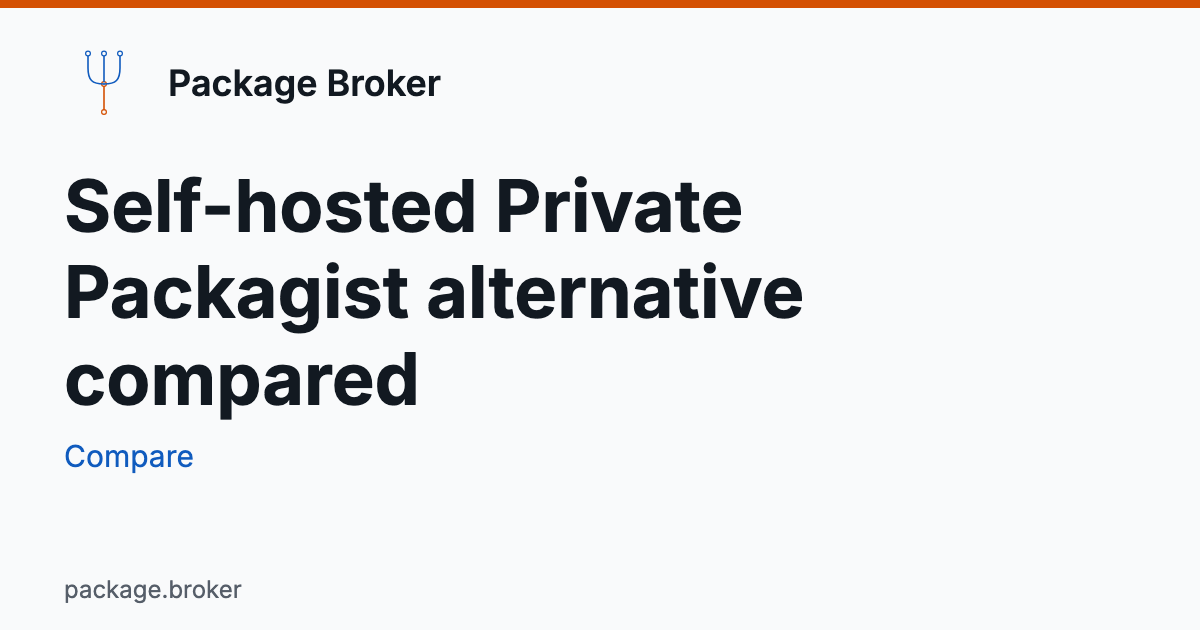
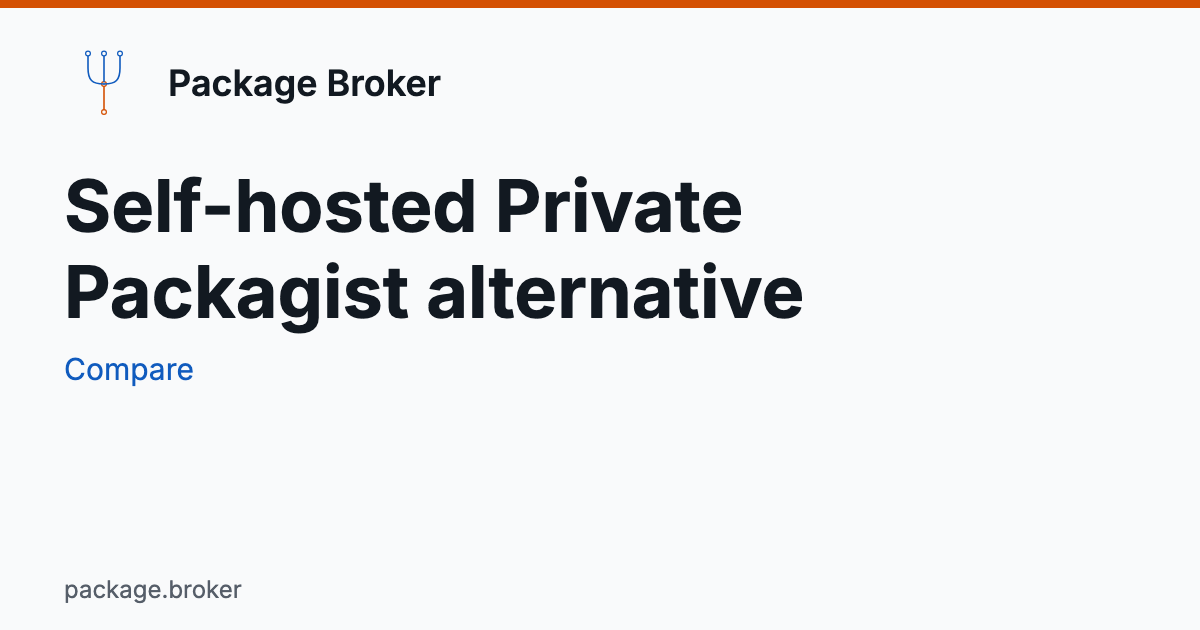
fix: alternative intro in the hero, not in sourced competitor claims; dated pricing link; FAQ wording from the ADR

Changed region(s): [[0.0308, 0.5429, 0.37, 0.6635], [0.0617, 0.6937, 0.1542, 0.754]]

diff --git a/src/pages/agencies.tsx b/src/pages/agencies.tsx
@@ -11,6 +11,7 @@ import styles from './agencies.module.css';
 export default function Agencies() {
   const {collectAnchor} = useBrokenLinks();
   collectAnchor('mechanisms');
+  collectAnchor('cost');
   return <MarketingLayout title="For agencies: one project per client" description="Give each client a project, its own repo.magento.com source credentials and project-bound CI tokens. See how grants control who can install.">
     <div className={styles.page}>
     <div className={`pb-hero pb-hero--page pb-hero-grid ${styles.hero}`}>
@@ -50,7 +51,7 @@ export default function Agencies() {
       <ul>
         <li><strong>A freelancer joins one client.</strong> Grant only that project, with no organization role. Use an install-only role if they do not need to publish. Their e-mail domain must be accepted by your identity provider configuration; otherwise use an identity in your agency’s provider.</li>
         <li><strong>A developer leaves.</strong> After moving existing keys into the broker, rotate the old copies once. Suspending the user in the broker takes effect on their next request. Group removal takes up to 12 hours for sessions and 24 hours for personal tokens; e-mail grants and CI tokens need separate removal or revocation. Personal tokens require a broker sign-in at least daily.</li>
-        <li><strong>A vendor repository is down.</strong> Archives already installed through the broker are served from its storage. Versions never downloaded through the broker still need the vendor repository. Optional retention rules can remove unused public proxy archives.</li>
+        <li><strong>A vendor repository is down.</strong> Archives already installed through the broker are served from its storage. Versions never downloaded through the broker still need the vendor repository. Lifecycle expiry is optional and applies only to public proxy packages, never to vendor-repository archives.</li>
       </ul>
       <p>Composer uses one credential for the broker host; npm needs a configuration line per project. <Link className="pb-link" to={tokenDecision}>Personal and service token policy</Link>.</p>
     </PageSection>
@@ -65,17 +66,17 @@ export default function Agencies() {
         <p>Migration guides cover <Link className="pb-link" to="/docs/migration/from-private-packagist">Private Packagist</Link>, <Link className="pb-link" to="/docs/migration/from-satis">Satis</Link> and <Link className="pb-link" to="/docs/migration/from-packeton">Packeton</Link>. Compare with <Link className="pb-link" to="/compare/satis">Satis</Link> or <Link className="pb-link" to="/compare/packeton">Packeton</Link> before switching.</p>
         <div className="pb-actions"><Link className="pb-btn pb-btn--primary" to={workersQuickstart}>Start the quickstart</Link><a className="pb-btn" href={`mailto:${contacts.support}`}>Ask about your setup</a></div>
         <p>Get notified of releases: open <a className="pb-link" href={repository}>the GitHub repository</a> and choose Watch → Custom → Releases, or subscribe to the <a className="pb-link" href={releasesFeed}>release Atom feed</a>.</p>
-        <p>Getting help: report bugs in <a className="pb-link" href={`${repository}/issues`}>GitHub issues</a>, ask questions in <a className="pb-link" href={`${repository}/discussions`}>GitHub Discussions</a>, or e-mail <a className="pb-link" href={`mailto:${contacts.support}`}>{contacts.support}</a> for private setup questions. Use the <Link className="pb-link" to="/security#disclosure">private vulnerability reporting routes</Link> for security problems.</p>
+        <p>Getting help: report bugs in <a className="pb-link" href={`${repository}/issues`}>GitHub issues</a>, ask questions in <a className="pb-link" href={`${repository}/discussions`}>GitHub Discussions</a>, or e-mail <a className="pb-link" href={`mailto:${contacts.support}`}>{contacts.support}</a> for private setup questions. Use the <Link className="pb-link" to="/security">private vulnerability reporting routes</Link> for security problems.</p>
       </div>
     </PageSection>
     <PageSection id="faq" title="Questions before moving a client">
-      <div className={styles.faq}>
-        <details><summary>What happens if a vendor repository is down?</summary><p>Archives already installed through the broker are served from its storage. Versions never downloaded through the broker still need the vendor repository. Optional retention rules can remove unused public proxy archives.</p></details>
-        <details><summary>Who can decrypt a client’s keys?</summary><p>Organization admins and anyone with both the database and deployment master key can decrypt source credentials. Developers and CI install with broker tokens. You own master key storage, access, backup and rotation. <Link className="pb-link" to={tokenDecision}>Secrets and token policy</Link>.</p></details>
-        <details><summary>Can the data stay in the EU?</summary><p>For Workers deployments that need EU storage, choose the <code>eu</code> jurisdiction when creating D1 and R2 resources. Provisioning checks the requested jurisdiction against existing resources. On Node, you choose the host and persistent storage. Storage placement does not determine where requests to package sources or external services are processed. <Link className="pb-link" to="/security#residency">Data location and outbound requests</Link>.</p></details>
-        <details><summary>What do you operate yourself?</summary><p>You run backups, restore checks, upgrades, master key recovery and your identity provider. You also manage storage placement, token policies and network exposure; on Node you operate the host and volumes. <Link className="pb-link" to="/security#operator">Operator responsibilities</Link> · <Link className="pb-link" to="/pricing">Hosting and operations costs</Link>.</p></details>
-        <details><summary>How do you move one client first?</summary><p>Evaluate one client project before moving more clients. Create its project-owned sources, connect your identity provider for the team, and check source selection and install access. Follow the migration guide for <Link className="pb-link" to="/docs/migration/from-private-packagist">Private Packagist</Link>, <Link className="pb-link" to="/docs/migration/from-satis">Satis</Link> or <Link className="pb-link" to="/docs/migration/from-packeton">Packeton</Link>.</p></details>
-        <details><summary>What happens if the project stops?</summary><p>Your self-hosted deployment keeps running. The code is AGPL-3.0-only, and your data stays in your own D1 and R2, or SQLite and your blob store. You remain responsible for backups and updates. <Link className="pb-link" to="/docs/decisions/licensing-and-contribution-terms">Licensing and contribution terms</Link> · <Link className="pb-link" to="/docs/decisions/deployment-and-runtimes">Deployment and recovery decisions</Link>.</p></details>
+      <div className="pb-faq">
+        <details><summary>What happens if a vendor repository is down?</summary><div className="pb-faq__answer"><p>Archives already installed through the broker are served from its storage. Versions never downloaded through the broker still need the vendor repository. Lifecycle expiry is optional and applies only to public proxy packages, never to vendor-repository archives.</p></div></details>
+        <details><summary>Who can decrypt a client’s keys?</summary><div className="pb-faq__answer"><p>Organization admins and anyone with both the database and deployment master key can decrypt source credentials. Developers and CI install with broker tokens. You own master key storage, access, backup and rotation. <Link className="pb-link" to={tokenDecision}>Secrets and token policy</Link>.</p></div></details>
+        <details><summary>Can the data stay in the EU?</summary><div className="pb-faq__answer"><p>For Workers deployments that need EU storage, choose the <code>eu</code> jurisdiction when creating D1 and R2 resources. Provisioning checks the requested jurisdiction against existing resources. On Node, you choose the host and persistent storage. Storage placement does not determine where requests to package sources or external services are processed. <Link className="pb-link" to="/security">Data location and outbound requests</Link>.</p></div></details>
+        <details><summary>What do you operate yourself?</summary><div className="pb-faq__answer"><p>You run backups, restore checks, upgrades, master key recovery and your identity provider. You also manage storage placement, token policies and network exposure; on Node you operate the host and volumes. <Link className="pb-link" to="/security">Operator responsibilities</Link> · <Link className="pb-link" to="/pricing">Hosting and operations costs</Link>.</p></div></details>
+        <details><summary>How do you move one client first?</summary><div className="pb-faq__answer"><p>Evaluate one client project before moving more clients. Create its project-owned sources, connect your identity provider for the team, and check source selection and install access. Follow the migration guide for <Link className="pb-link" to="/docs/migration/from-private-packagist">Private Packagist</Link>, <Link className="pb-link" to="/docs/migration/from-satis">Satis</Link> or <Link className="pb-link" to="/docs/migration/from-packeton">Packeton</Link>.</p></div></details>
+        <details><summary>What happens if the project stops?</summary><div className="pb-faq__answer"><p>The code is AGPL-3.0-only, and your data stays in your own D1 and R2, or SQLite and your blob store. You remain responsible for backups and updates. <Link className="pb-link" to="/docs/decisions/licensing-and-contribution-terms">Licensing and contribution terms</Link> · <Link className="pb-link" to="/docs/decisions/deployment-and-runtimes">Deployment and recovery decisions</Link>.</p></div></details>
       </div>
     </PageSection>
     </div>

diff --git a/src/pages/pricing.tsx b/src/pages/pricing.tsx
@@ -1,6 +1,7 @@
 import Link from '@docusaurus/Link';
 import MarketingLayout, {PageSection} from '../components/marketing/MarketingLayout';
 import {runtimes} from '../data/entity';
+import {cloudflarePricing} from '../data/cloudflare-pricing';
 
 export default function Pricing() {
   return <MarketingLayout title="What it costs" description="Plan Package Broker hosting and operations: no licence fee or per-user, per-project or per-client charge. Review Workers costs and your responsibilities.">
@@ -10,13 +11,13 @@ export default function Pricing() {
     </PageSection>
     <PageSection id="hosting" title="Hosting and usage">
       <p>Run Package Broker on {runtimes}.</p>
-      <p>From USD 5 a month on Workers Paid plus usage beyond the included requests and CPU time. D1, R2 and Queues are billed by usage. Check <a className="pb-link" href="https://developers.cloudflare.com/workers/platform/pricing/">Cloudflare Workers pricing</a> for current terms.</p>
+      <p>From USD 5 a month on Workers Paid plus usage beyond the included requests and CPU time. D1, R2 and Queues are billed by usage. Check <a className="pb-link" href={cloudflarePricing.url}>Cloudflare Workers pricing</a> (checked <time dateTime={cloudflarePricing.checked}>{cloudflarePricing.checked}</time>) for current terms.</p>
       <p>On your own Node host, you pay for your host, storage and operations. Build the container image from the repository; container image publishing is planned.</p>
     </PageSection>
     <PageSection id="operations" title="What you run">
       <p>Workers deployments use Workers, D1, R2, Queues and Cron Triggers. Node deployments use the Node bundle, SQLite and a filesystem blob store, or an S3-compatible bucket.</p>
       <p>You own backups, master key recovery, upgrades and the identity provider. On Node, you also operate the host. Organization admins and the master key holder can use every client’s keys; rotate them when an admin leaves.</p>
-      <p><Link className="pb-link" to="/security#operator">Security model and operator responsibilities</Link> · <Link className="pb-link" to="/agencies#cost">Costs for your agency</Link></p>
+      <p><Link className="pb-link" to="/security">Security model and operator responsibilities</Link> · <Link className="pb-link" to="/agencies#cost">Costs for your agency</Link></p>
     </PageSection>
   </MarketingLayout>;
 }

diff --git a/src/components/compare/ComparisonPage.tsx b/src/components/compare/ComparisonPage.tsx
@@ -10,7 +10,7 @@ export default function ComparisonPage({productId}: {productId: string}) {
   const title = `Package Broker and ${product.name}, compared`;
   const description = `Compare Package Broker and ${product.name}: authentication, project isolation, npm, SSO, self-hosting, licence and price model, with sources and checked dates.`;
   return <MarketingLayout title={title} description={description}><div className={styles.page}>
-    <div className="pb-hero pb-hero--page"><p className="pb-eyebrow">Compare</p><h1>{title}</h1><p className="pb-hero__sub">Choose who operates your agency’s registry, how client access works and whether you need npm alongside Composer. Read when each product fits, then check the sources and recorded review dates.</p><p className="pb-page-meta">Package Broker 2.0 is in development; no tagged release yet.</p></div>
+    <div className="pb-hero pb-hero--page"><p className="pb-eyebrow">Compare</p><h1>{title}</h1><p className="pb-hero__sub">Choose who operates your agency’s registry, how client access works and whether you need npm alongside Composer. Read when each product fits, then check the sources and recorded review dates.</p><p>{product.intro}</p><p className="pb-page-meta">Package Broker 2.0 is in development; no tagged release yet.</p></div>
     <nav aria-label="Comparison pages"><ul className="pb-links-row">{competitors.map(item => <li key={item.id}><Link className="pb-link" to={`/compare/${item.id}`} aria-current={item.id === product.id ? 'page' : undefined}>{item.name}</Link></li>)}</ul></nav>
     <aside className="pb-compare-fit" aria-labelledby="competitor-fit"><h2 id="competitor-fit">When {product.name} fits better</h2><p>{fit.value}</p><SourceDate {...fit} label={product.id === 'private-packagist' ? 'Private Packagist pricing' : `${product.name} documentation`}/></aside>
     <PageSection id="broker-fit" title="When Package Broker fits better">

diff --git a/src/pages/compare/index.tsx b/src/pages/compare/index.tsx
@@ -1,14 +1,15 @@
 import Link from '@docusaurus/Link';
 import MarketingLayout, {PageSection} from '../../components/marketing/MarketingLayout';
+import {releaseStatus} from '../../data/landing';
 import {competitors, SourceDate} from '../../components/compare/ComparisonTable';
 
 export default function Compare() {
   return <MarketingLayout title="Private Composer registry alternatives" description="Compare Package Broker with Private Packagist, Satis and Packeton using sourced comparisons, checked dates and migration guides for each registry.">
-    <div className="pb-hero pb-hero--page"><p className="pb-eyebrow">Compare</p><h1>Private Composer registry alternatives</h1><p className="pb-hero__sub">Compare access boundaries, package formats and what you operate. Each comparison records its sources and checked dates.</p></div>
+    <div className="pb-hero pb-hero--page"><p className="pb-eyebrow">Compare</p><h1>Private Composer registry alternatives</h1><p className="pb-hero__sub">Compare access boundaries, package formats and what you operate. Each comparison records its sources and checked dates.</p><p className="pb-page-meta">Package Broker {releaseStatus}.</p></div>
     <PageSection id="comparisons" title="Choose a comparison">
       <ul>{competitors.map(product => <li key={product.id}>
         <h3><Link className="pb-link" to={`/compare/${product.id}`}>Package Broker and {product.name}, compared</Link></h3>
-        <SourceDate {...product.fit!} label={`${product.name} source`}/>
+        <SourceDate {...product.fit!} label={product.id === 'private-packagist' ? 'Private Packagist pricing' : `${product.name} documentation`}/>
       </li>)}</ul>
     </PageSection>
     <PageSection id="migration" title="Plan your migration">

diff --git a/src/components/landing/SiteChrome.tsx b/src/components/landing/SiteChrome.tsx
@@ -61,7 +61,9 @@ export function LandingHeader() {
         <span className="pb-site-nav-toggle__label">Menu</span>
       </button>
       <nav className="pb-site-nav" id="landing-nav" aria-label="Main">
-        <ul>{headerLinks.map(({label, ...destination}) => <li key={label}><Link {...destination} aria-current={'to' in destination && destination.to?.replace(/\/+$/, '') === pathname.replace(/\/+$/, '') ? 'page' : undefined} onClick={close}>{label}</Link></li>)}</ul>
+        <ul>{headerLinks.map(({label, ...destination}) => <li key={label}><Link {...destination} aria-current={'to' in destination && (label === 'Compare'
+          ? pathname === '/compare' || pathname.startsWith('/compare/')
+          : destination.to?.replace(/\/+$/, '') === pathname.replace(/\/+$/, '')) ? 'page' : undefined} onClick={close}>{label}</Link></li>)}</ul>
       </nav>
     </header>
   );

diff --git a/src/pages/agencies.module.css b/src/pages/agencies.module.css
@@ -69,17 +69,3 @@
     grid-template-columns: repeat(3, minmax(0, 1fr));
   }
 }
-
-.faq details {
-  padding-block: var(--pb-space-4);
-  border-bottom: var(--pb-space-px) solid var(--pb-color-border);
-}
-
-.faq summary {
-  cursor: pointer;
-  font-weight: var(--pb-font-weight-semibold);
-}
-
-.faq details p {
-  margin-block: var(--pb-space-4) 0;
-}

diff --git a/src/data/cloudflare-pricing.ts b/src/data/cloudflare-pricing.ts
@@ -1,0 +1,4 @@
+export const cloudflarePricing = {
+  url: 'https://developers.cloudflare.com/workers/platform/pricing/',
+  checked: '2026-10-25',
+} as const;
